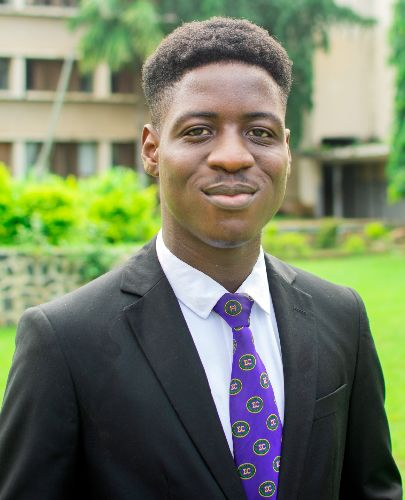
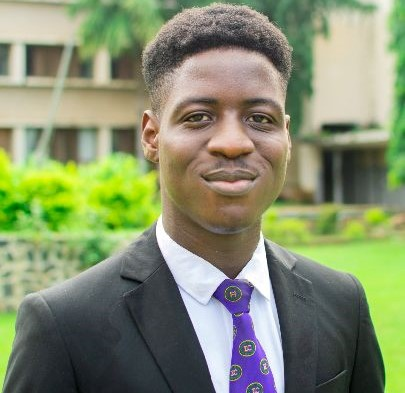
fixed distorted excos images and added quiz tages files

diff --git a/src/pages/Events/QuizStages2024/StagesData.js b/src/pages/Events/QuizStages2024/StagesData.js
@@ -1,0 +1,106 @@
+const stagesData = [
+  {
+    title: "Stage 1 (State Level)",
+    champions: "State Champions",
+    content:
+      "This stage of the competition would be held at the state level , so all schools qualifying at this stage will proceed to the 2nd stage of the competition which is the zonal stage.",
+    buttonText: "Prices: N200,000 & Electronic Gadgets, Laptops, Phones, and so on",
+    tableData: [
+      [
+        "Maryland Senior Secondary School, Idi Ape, Maryland, Lagos",
+        "Ayodele Oluwapelumi <br> Adeyemi Emmanuel",
+        "Lagos state <br> South west region",
+      ],
+      [
+        "Maryland Senior Secondary School, Idi Ape, Maryland, Lagos",
+        "Ayodele Oluwapelumi <br> Adeyemi Emmanuel",
+        "Anambra <br> South east region",
+      ],
+      [
+        "Maryland Senior Secondary School, Idi Ape, Maryland, Lagos",
+        "Ayodele Oluwapelumi <br> Adeyemi Emmanuel",
+        "Lagos state <br> South west region",
+      ],
+      [
+        "Maryland Senior Secondary School, Idi Ape, Maryland, Lagos",
+        "Ayodele Oluwapelumi <br> Adeyemi Emmanuel",
+        "Lagos state <br> South west region",
+      ],
+      [
+        "Maryland Senior Secondary School, Idi Ape, Maryland, Lagos",
+        "Ayodele Oluwapelumi <br> Adeyemi Emmanuel",
+        "Lagos state <br> South west region",
+      ],
+      [
+        "Maryland Senior Secondary School, Idi Ape, Maryland, Lagos",
+        "Ayodele Oluwapelumi <br> Adeyemi Emmanuel",
+        "Lagos state <br> South west region",
+      ],
+    ],
+  },
+  {
+    title: "Stage 2 (Regional Level)",
+    champions: "Regional Champions",
+    content:
+      "This stage of the competition would be held at the Regional level , State qualifying schools will compete at this stage. This will hold in a state in the 6 Geo-political zones of Nigeria",
+    buttonText: "Prices: N200,000 & Electronic Gadgets, Laptops, Phones, and so on",
+    tableData: [
+        [
+          "Maryland Senior Secondary School, Idi Ape, Maryland, Lagos",
+          "Ayodele Oluwapelumi <br> Adeyemi Emmanuel",
+          "Lagos state <br> South west region",
+        ],
+        [
+          "Maryland Senior Secondary School, Idi Ape, Maryland, Lagos",
+          "Ayodele Oluwapelumi <br> Adeyemi Emmanuel",
+          "Lagos state <br> South west region",
+        ],
+        [
+          "Maryland Senior Secondary School, Idi Ape, Maryland, Lagos",
+          "Ayodele Oluwapelumi <br> Adeyemi Emmanuel",
+          "Lagos state <br> South west region",
+        ],
+        [
+            "Maryland Senior Secondary School, Idi Ape, Maryland, Lagos",
+            "Ayodele Oluwapelumi <br> Adeyemi Emmanuel",
+            "Lagos state <br> South west region",
+          ],
+          [
+            "Maryland Senior Secondary School, Idi Ape, Maryland, Lagos",
+            "Ayodele Oluwapelumi <br> Adeyemi Emmanuel",
+            "Lagos state <br> South west region",
+          ],
+          [
+            "Maryland Senior Secondary School, Idi Ape, Maryland, Lagos",
+            "Ayodele Oluwapelumi <br> Adeyemi Emmanuel",
+            "Lagos state <br> South west region",
+          ],
+      ],
+  },
+  {
+    title: "Stage 3 (Finals)",
+    champions: "Winner",
+    content:
+      " This is the final stage of the competition. The schools qualifying at the various regions will compete at the finals at the International Conference Centre, University of Ibadan, Ibadan, Oyo State.",
+    buttonText: "Prices : Winner gets <strong>N5,000,000</strong> & other prices <br> 1st Runner up gets  <strong>N3,000,000</strong> & other Prices <br> 2nd Runner up gets  <strong>N2,000,000</strong> & other prices",
+    tableData: [
+        [
+            " <strong>Winner</strong> <br>Maryland Senior Secondary School, Idi Ape, Maryland, Lagos",
+            "Ayodele Oluwapelumi <br> Adeyemi Emmanuel",
+            "Lagos state <br> South west region",
+          ],
+          [
+            "<strong>1st Runner Up</strong> <br>Maryland Senior Secondary School, Idi Ape, Maryland, Lagos",
+            "Ayodele Oluwapelumi <br> Adeyemi Emmanuel",
+            "Anambra <br> South east region",
+          ],
+          [
+            " <strong>2nd Runner Up</strong> <br>Maryland Senior Secondary School, Idi Ape, Maryland, Lagos",
+            "Ayodele Oluwapelumi <br> Adeyemi Emmanuel",
+            "Lagos state <br> South west region",
+          ],
+    ],
+  },
+];
+
+export default stagesData;

diff --git a/src/pages/Events/QuizStages2024/Stages.js b/src/pages/Events/QuizStages2024/Stages.js
@@ -1,0 +1,98 @@
+import React, { useState } from "react";
+import { Container, Heading, Text, Icon, Box, Flex, Divider } from "@chakra-ui/react";
+import { FaChevronLeft } from "react-icons/fa";
+import { Tabs, TabList, Tab, TabPanel, TabPanels } from "@chakra-ui/react";
+import TabContent from "./TabContent"; 
+import stagesData from "./StagesData"; 
+
+
+function StageTab({ index, selectedTab, handleTabChange, label }) {
+  const isActive = selectedTab === index;
+  const tabStyles = {
+    backgroundColor: isActive ? "#8F19E7" : "#8f19e71a",
+    color: isActive ? "white" : "black",
+    borderRadius: "10px",
+    marginLeft: "5px",
+    marginRight: "5px",
+  };
+
+  return (
+    <Tab onClick={() => handleTabChange(index)} style={tabStyles}>
+      {label}
+    </Tab>
+  );
+}
+
+const StagesContainer = () => {
+  const [selectedTab, setSelectedTab] = useState(0);
+
+  const handleTabChange = (index) => {
+    setSelectedTab(index);
+  };
+
+  return (
+    <Container maxW="7xl" className="animate-bottom">
+      <Flex flexDirection={{ base: "column", md: "row" }}>
+        <Box flex={{ base: "none", md: 7 }}>
+          <Text fontSize="md">
+            <Icon as={FaChevronLeft} mt={2} /> Back
+          </Text>
+
+          <Heading py={4} fontSize="24px">
+            Competition Stages
+          </Heading>
+
+          <Tabs isFitted variant="enclosed">
+            <TabList>
+              {stagesData.map((stage, index) => (
+                <StageTab
+                  key={index}
+                  index={index}
+                  selectedTab={selectedTab}
+                  handleTabChange={handleTabChange}
+                  label={stage.title}
+                />
+              ))}
+            </TabList>
+            <TabPanels>
+              {stagesData.map((stage, index) => (
+                <TabPanel key={index}>
+                  {selectedTab === index && (
+                    <TabContent
+                      title={stage.champions}
+                      content={stage.content}
+                      buttonText={stage.buttonText}
+                      tableData={stage.tableData}
+                    />
+                  )}
+                </TabPanel>
+              ))}
+            </TabPanels>
+          </Tabs>
+        </Box>
+
+        <Divider my={4} bg="#1C1C1CB2" height="100vh" mr={2} px={0} borderWidth="2px" orientation="vertical" display={{base: 'none', md: 'block'}} />
+
+        <Box flex={{ base: "none", md: 3 }} my={5} pl={2} fontWeight='500'>
+         <Text >Previous version of the competition</Text>
+
+         <Box py={4}>
+          <Text>2023 South-West region secondary schools quiz competition</Text>
+          <Text textDecoration='underline' textAlign='right' color='#8F19E7'>View</Text>
+         </Box>
+
+         <Box py={4}>
+          <Text>2023 South-West region secondary schools quiz competition</Text>
+          <Text textDecoration='underline' textAlign='right'color='#8F19E7'>View</Text>
+         </Box>
+
+
+        </Box>
+      </Flex>
+
+     
+    </Container>
+  );
+};
+
+export default StagesContainer;

diff --git a/src/pages/Events/QuizStages2024/TabContent.js b/src/pages/Events/QuizStages2024/TabContent.js
@@ -1,0 +1,75 @@
+import React from "react";
+import {
+  Table,
+  Thead,
+  Tbody,
+  Tr,
+  Th,
+  Td,
+  Text,
+  Box,
+  Button,
+  Link,
+} from "@chakra-ui/react";
+import { FaArrowRight } from "react-icons/fa";
+
+function TabContent({ title, content, buttonText, tableData }) {
+  return (
+    <div>
+      <Text py={4}>{content}</Text>
+      <Box
+        bg="#8F19E7"
+        width="full"
+        color="white"
+        cursor="pointer"
+        rounded="md"
+        padding="10px"
+        my={2}
+        dangerouslySetInnerHTML={{ __html: buttonText }}
+      />
+      <Text fontWeight="500">{title}</Text>
+      <Text pb={20} pt={2}>
+        {" "}
+        To be determined
+      </Text>
+      {/* Comment out Table data
+      <div style={{  overflowX: "auto" }}>
+        <Table variant="striped" minWidth="600px" my={3}>
+          <Thead>
+            <Tr>
+              <Th textAlign="center">School Name & Address</Th>
+              <Th textAlign="center">Student Name</Th>
+              <Th textAlign="center">Region</Th>
+            </Tr>
+          </Thead>
+          <Tbody>
+            {tableData.map((row, rowIndex) => (
+              <Tr key={rowIndex}>
+                {row.map((cell, cellIndex) => (
+                  <Td key={cellIndex} width="30%" textAlign="left">
+                  <div dangerouslySetInnerHTML={{ __html: cell }} />
+                </Td>
+                ))}
+              </Tr>
+            ))}
+          </Tbody>
+        </Table>
+      </div>
+      */}
+      <Link href="https://www.ola.com">
+        <Button
+          rightIcon={<FaArrowRight />}
+          fontWeight={600}
+          color={"white"}
+          bg={"brand.purple"}
+          _hover={{ bgColor: "brand.purple" }}
+          variant="solid"
+        >
+          Register your school
+        </Button>
+      </Link>
+    </div>
+  );
+}
+
+export default TabContent;

diff --git a/src/pages/AboutUs/ExecutivesCard.tsx b/src/pages/AboutUs/ExecutivesCard.tsx
@@ -24,7 +24,7 @@ export default function ExecutivesCard({
         <Box
           className="animate-bottom"
           maxW={"290px"}
-          height={320}
+          height={370}
           w={"full"}
           bg={useColorModeValue("white", "gray.900")}
           boxShadow={"md"}
@@ -34,9 +34,9 @@ export default function ExecutivesCard({
           <Box bg={"gray.100"} mb={4} pos={"relative"}>
             <Image
               src={image}
-              fit={"fill"}
+             objectFit='cover'
               width="288px"
-              height="200px"
+              height="250px"
             />
           </Box>
           <Stack p={3} mb={4}>

diff --git a/src/App.js b/src/App.js
@@ -11,7 +11,7 @@ import OldChiefs from "./pages/AboutUs/OldChiefsTable";
 import OldSigmites from "./pages/AboutUs/OldSigmitesTable";
 
 import Scholarship from "./pages/Events/Scholarship";
-import Quiz from "./pages/Events/Quiz";
+import Quiz from "./pages/Events/QuizStages2024";
 import HealthOutreach from "./pages/Events/HealthOutreach";
 import SportCompetition from "./pages/Events/SportCompetition";
 import Blogdetails from "./pages/Articles/Blogdetails";

diff --git a/src/pages/Events/QuizStages2024/index.js b/src/pages/Events/QuizStages2024/index.js
@@ -1,0 +1,11 @@
+
+import Stages from "./Stages";
+const QuizStages = () => {
+  return (
+    <>
+     <Stages/> 
+    </>
+  );
+};
+
+export default QuizStages;
